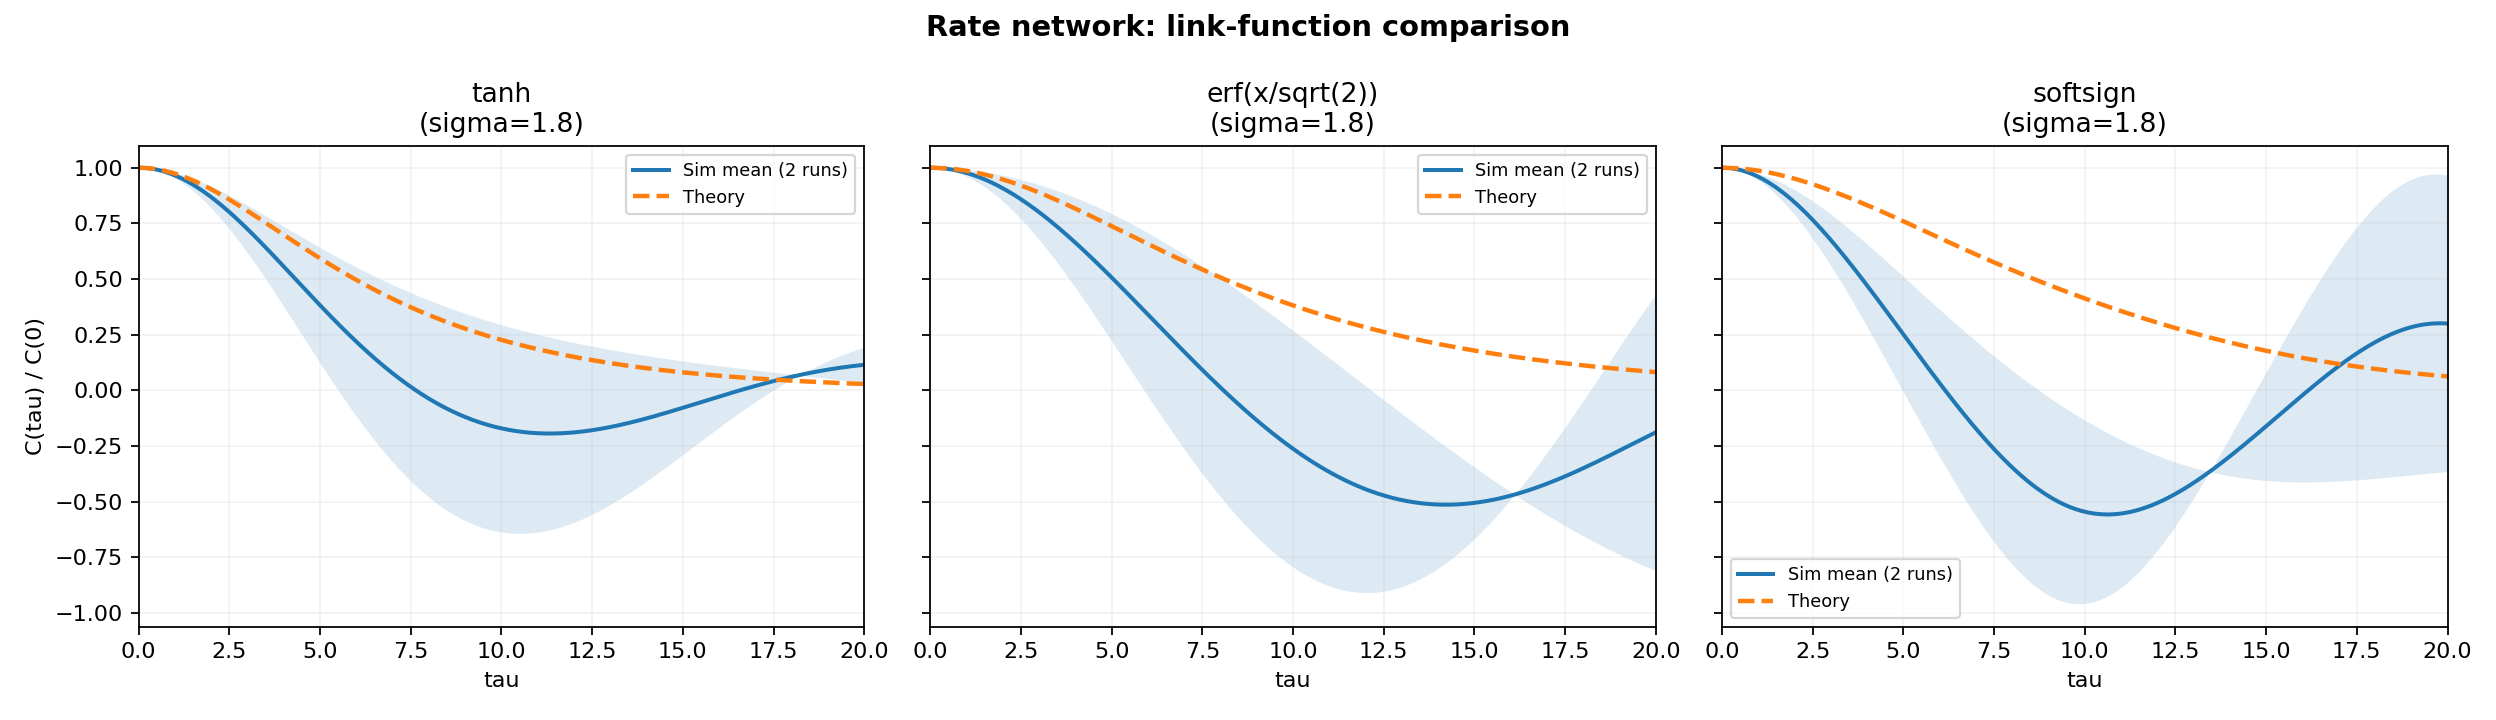
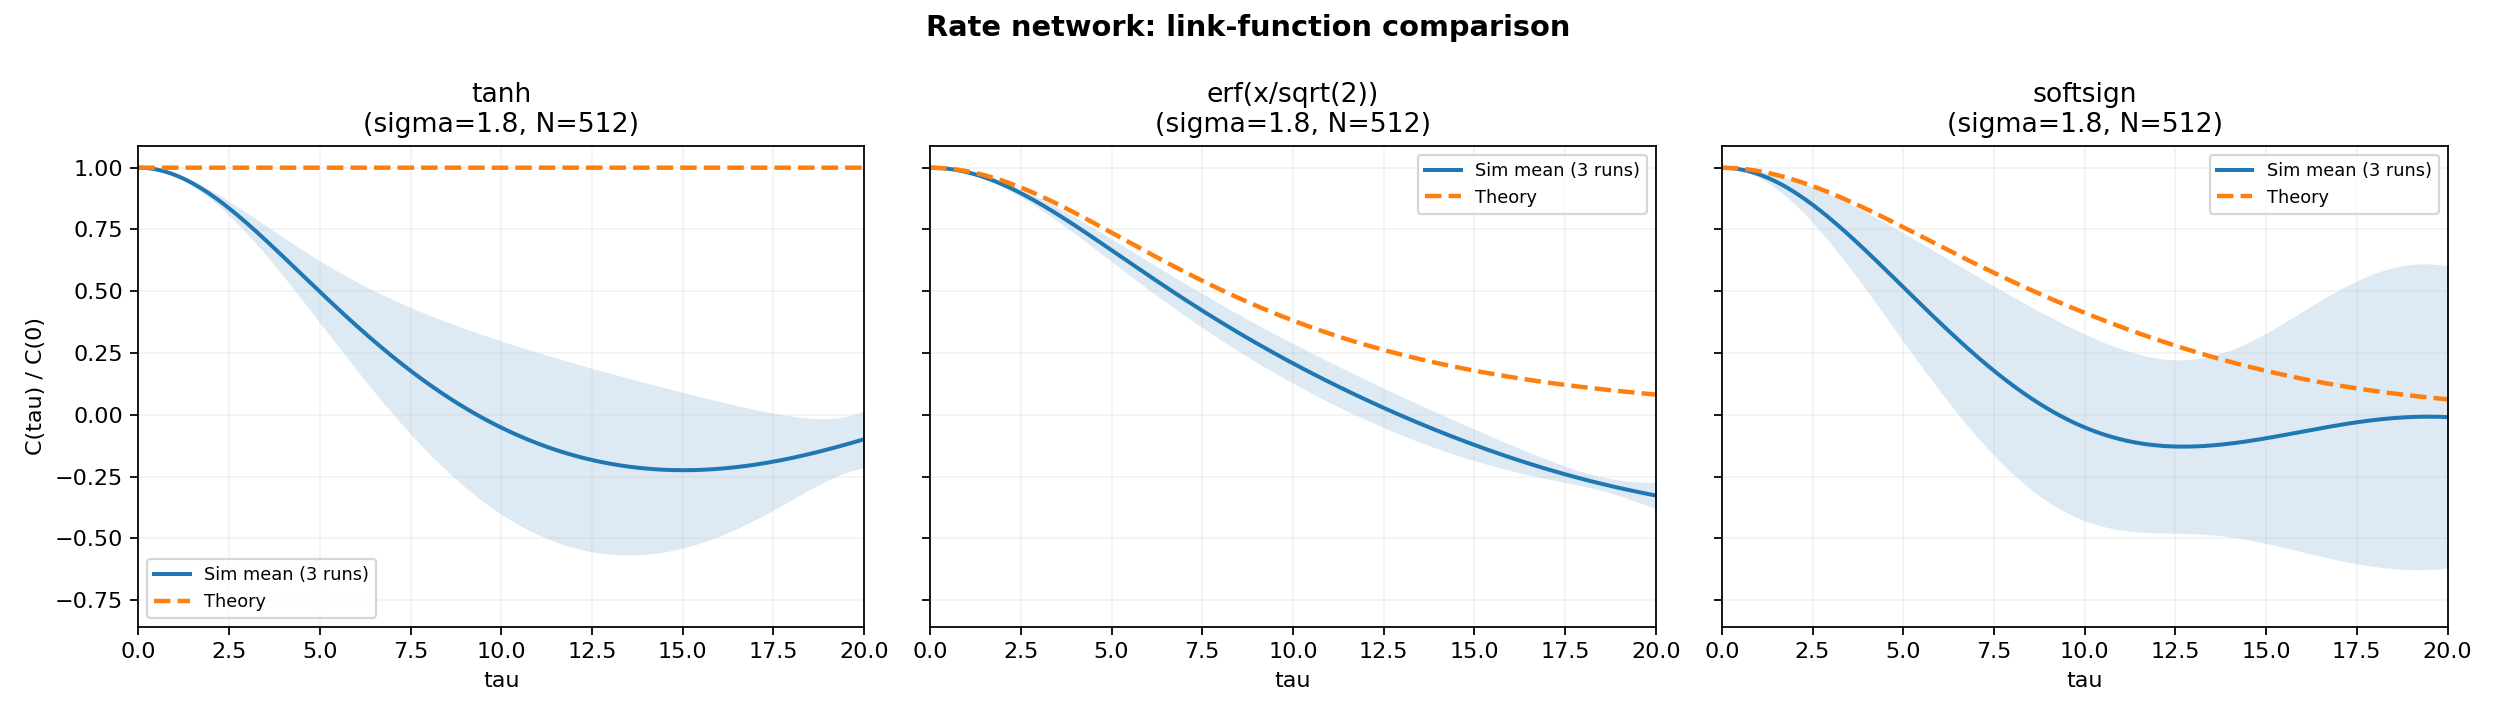
updates

diff --git a/python/simulations/make_quick_plots.py b/python/simulations/make_quick_plots.py
@@ -192,22 +192,28 @@ def main():
     fig, axes = plt.subplots(1, len(link_examples), figsize=(5.2 * len(link_examples), 4.5), sharey=True)
 
     for ax, (link_name, link_fn) in zip(np.atleast_1d(axes), link_examples):
-        rate_params = dict(N=384, sigma=link_sigma, T=1600.0, dt=0.05, burn=250, lam=1, f=link_fn)
-        rate_reps = 2
+        rate_params = dict(N=512, sigma=link_sigma, T=2200.0, dt=0.05, burn=350, lam=1, f=link_fn)
+        rate_reps = 3
         C_runs = []
+        c0_runs = []
         tau_s = None
         for _ in range(rate_reps):
             tau_run, C_run = mod.sim_rate_network(**rate_params)
             tau_s = tau_run
+            c0_runs.append(float(C_run[0]))
             C_runs.append(C_run / max(C_run[0], 1e-12))
         C_s = np.mean(C_runs, axis=0)
         C_s_std = np.std(C_runs, axis=0)
+        c0_mean = float(np.mean(c0_runs))
+        c0_lo = max(0.05, 0.6 * c0_mean)
+        c0_hi = max(c0_lo + 1e-6, 1.4 * c0_mean)
         tau_t, C_t = mod.theory_rate_autocorr(
             C0=None,
             sigma=link_sigma,
             tau_max=25,
             dtau=0.01,
             f=link_fn,
+            C0_bounds=(c0_lo, c0_hi),
         )
 
         ax.plot(tau_s, C_s, lw=1.8, label=f"Sim mean ({rate_reps} runs)")
@@ -220,7 +226,7 @@ def main():
             linewidth=0,
         )
         ax.plot(tau_t, C_t / max(C_t[0], 1e-12), "--", lw=2.0, label="Theory")
-        ax.set_title(f"{link_name}\n(sigma={link_sigma})")
+        ax.set_title(f"{link_name}\n(sigma={link_sigma}, N={rate_params['N']})")
         ax.set_xlabel("tau")
         ax.set_xlim(0, 20)
         ax.grid(alpha=0.15)
